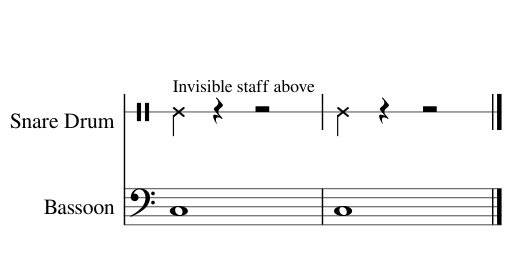
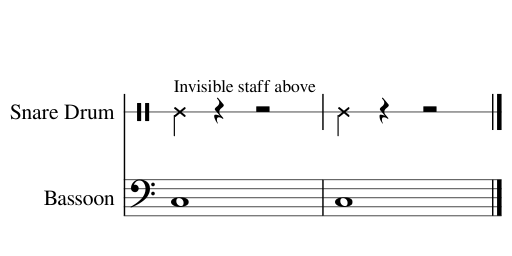
fix #58796: layout of one line staff

diff --git a/libmscore/system.cpp b/libmscore/system.cpp
@@ -43,11 +43,30 @@
 namespace Ms {
 
 //---------------------------------------------------------
+//   y
+//---------------------------------------------------------
+
+qreal SysStaff::y() const
+      {
+      return _bbox.y() + _yOff;
+      }
+
+//---------------------------------------------------------
+//   setYOff
+//---------------------------------------------------------
+
+void SysStaff::setYOff(qreal offset)
+      {
+      _yOff = offset;
+      }
+
+//---------------------------------------------------------
 //   SysStaff
 //---------------------------------------------------------
 
 SysStaff::SysStaff()
       {
+      _yOff = 0.0;
       idx   = 0;
       _show = true;
       }
@@ -368,8 +387,9 @@ void System::layout2()
                   }
             qreal sHeight = staff->height();
             qreal dup = staffIdx == 0 ? 0.0 : s->distanceUp();
-            if (staff->lines() == 1)
-                  dup -= _spatium * staff->mag();
+            // one-line staves get additional padding for their bbox
+            qreal off = staff->lines() == 1 ? _spatium * staff->mag() : 0.0;
+            s->setYOff(off);
             s->bbox().setRect(_leftMargin, y + dup, width() - _leftMargin, sHeight);
             y += dup + sHeight + s->distanceDown();
             lastStaffIdx = staffIdx;

diff --git a/libmscore/system.h b/libmscore/system.h
@@ -44,6 +44,7 @@ class BarLine;
 
 class SysStaff {
       QRectF _bbox;           ///< Bbox of StaffLines.
+      qreal _yOff;            ///< offset of top staff line within bbox
       qreal _distanceUp;      ///< distance to previous staff
       qreal _distanceDown;    ///< distance to next staff
       bool _show;             ///< derived from Staff or false if empty
@@ -55,9 +56,10 @@ class SysStaff {
       const QRectF& bbox() const    { return _bbox; }
       QRectF& bbox()                { return _bbox; }
       QRectF& rbb()                 { return _bbox; }
-      qreal y() const               { return _bbox.y(); }
       qreal right() const           { return _bbox.right(); }
       void setbbox(const QRectF& r) { _bbox = r; }
+      qreal y() const;
+      void setYOff(qreal offset);
 
       qreal distanceUp() const      { return _distanceUp;   }
       void setDistanceUp(qreal v)   { _distanceUp = v;      }
